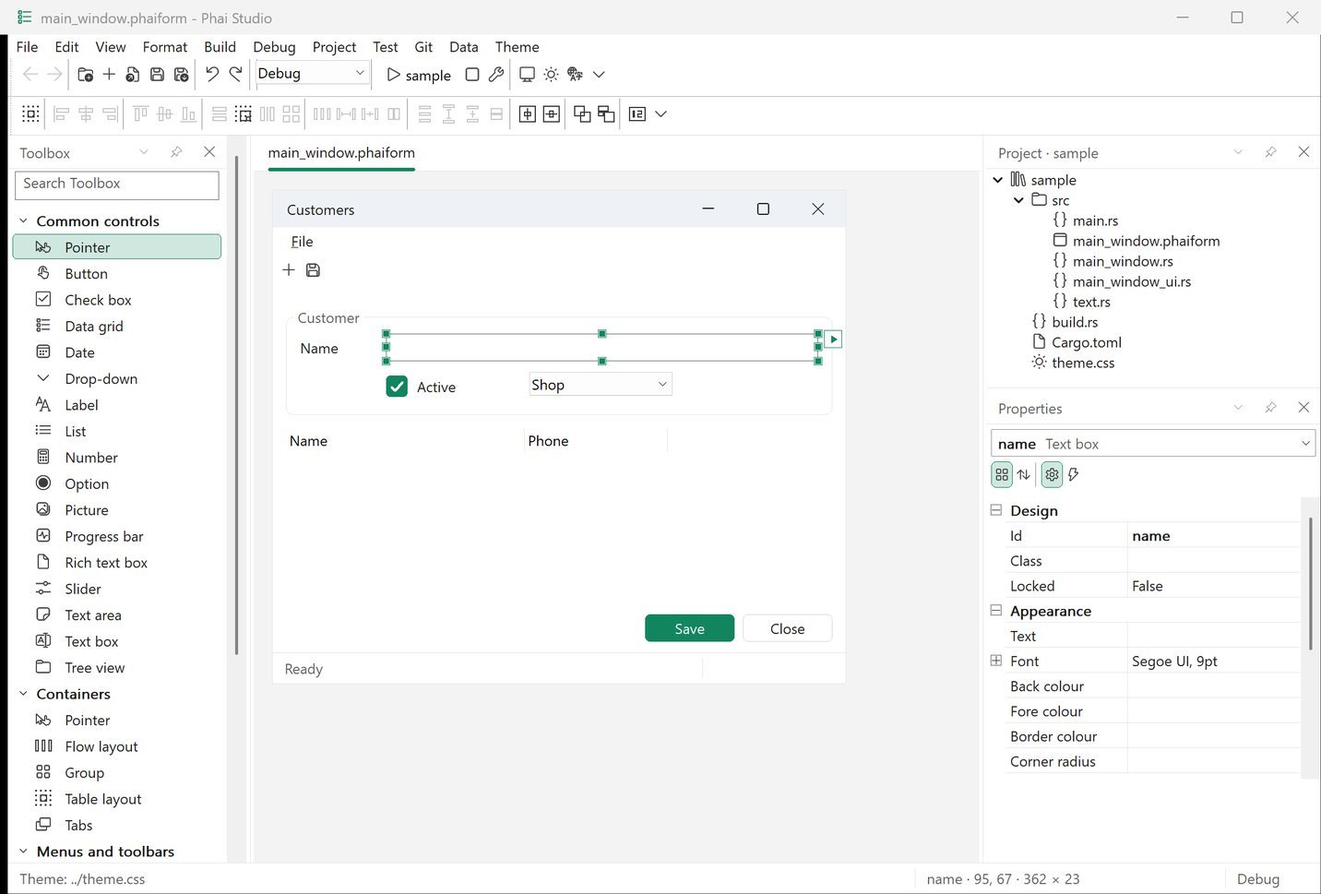
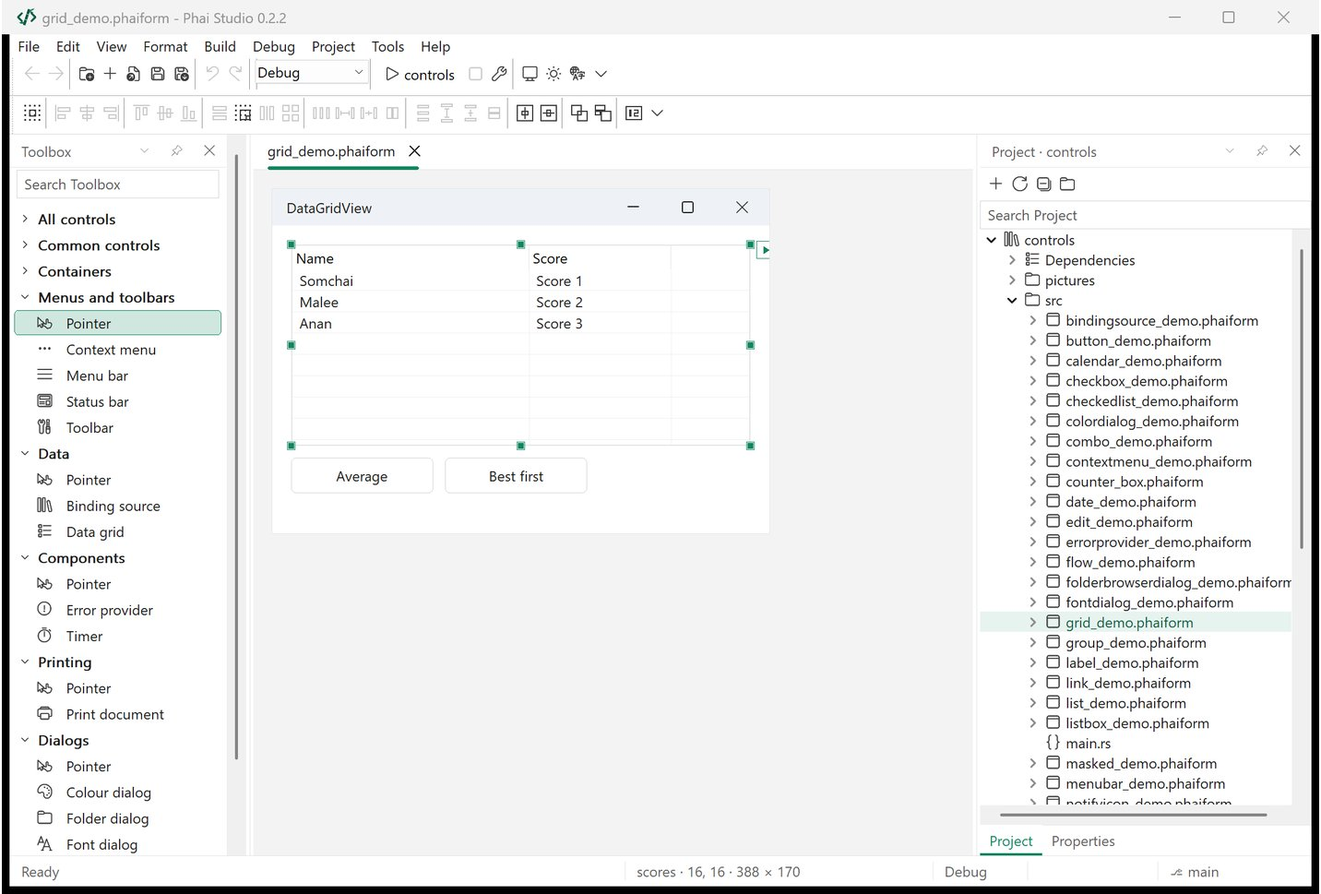
phai-studio.monrak.net: a guide section (tool pages and Rust lessons), the features as they are in 0.2.x, the theme editor and guide in the screenshots with a new designer shot, and 'Made with Phai Studio' showing the Phai Desk console; no other product named for comparison

diff --git a/site/assets/site.css b/site/assets/site.css
@@ -231,3 +231,17 @@ main, .foot { position: relative; z-index: 2; }
 .nb { white-space: nowrap; }
 p, li, h1, h2, h3, figcaption, blockquote, small, span { text-wrap: pretty; }
 h1, h2 { text-wrap: balance; }
+
+/* The guide in two parts (tools a page each, Rust lessons) and the made-with card. */
+.grid.g4 { grid-template-columns: repeat(4, 1fr); }
+@media (max-width: 960px) { .grid.g4 { grid-template-columns: repeat(2, 1fr); } }
+@media (max-width: 420px) { .grid.g4 { grid-template-columns: 1fr; } }
+h3.part { display: flex; align-items: center; gap: 8px; margin: 8px 0 4px; font-size: 1.15rem; }
+h3.part.mt { margin-top: 36px; }
+h3.part .ti { color: var(--green); font-size: 1.3rem; }
+h3.part + .muted { margin: 0 0 16px; }
+.card.tool .icon img { width: 26px; height: 26px; }
+.card.tool p { font-size: .92rem; }
+.card.made { display: grid; grid-template-columns: 3fr 2fr; gap: 28px; align-items: center; }
+.made-shot img { display: block; width: 100%; height: auto; border-radius: 10px; border: 1px solid var(--line); box-shadow: 0 12px 32px rgba(15, 60, 40, .12); }
+@media (max-width: 760px) { .card.made { grid-template-columns: 1fr; } }

diff --git a/site/index.php b/site/index.php
@@ -100,33 +100,53 @@ $T = $th ? [
     'lead' => 'ลากวางปุ่ม ช่องกรอก ตาราง ลงบนฟอร์ม ดับเบิลคลิกเขียนโค้ด กด F5 ก็ได้โปรแกรม Windows จริง พร้อมตัวแก้โค้ดที่เติมคำให้ ดีบักเกอร์ เทสต์ Git และทำตัวติดตั้งให้ด้วย หน้าจอภาษาไทย และมีคู่มือสอน Rust ภาษาไทยในตัว',
     'btnDownload' => 'ดาวน์โหลดตัวติดตั้ง', 'btnGithub' => 'โค้ดบน GitHub', 'btnGuide' => 'อ่านคู่มือภาษาไทย',
     'meta' => fn ($c) => "รุ่น {$release['version']} · {$mb} MB · Windows 10/11 (64 บิต) · <b>ดาวน์โหลดแล้ว {$c['downloads']} ครั้ง</b> · เข้าชม {$c['visitors']} คน",
-    'learnH' => 'หัดเขียน Rust ด้วยภาษาไทย',
-    'learnSub' => 'Rust เป็นภาษาที่เร็วและปลอดภัย แต่ตำราส่วนใหญ่เป็นภาษาอังกฤษ Phai Studio จึงมีคู่มือภาษาไทยในตัว (กด F1) เริ่มจากศูนย์ทีละบท ทุกตัวอย่างลองรันได้จริง เพื่อให้นักเรียน นักศึกษา และคนทำงานที่อยากเขียนโปรแกรมเอง เริ่มได้โดยไม่ติดเรื่องภาษา',
+    'learnH' => 'เรียนเขียนโปรแกรมด้วยภาษาไทย',
+    'learnSub' => 'คู่มือภาษาไทยในตัวโปรแกรม สำหรับนักเรียน นักศึกษา และคนทำงานที่อยากเขียนโปรแกรมเอง มีสองส่วน: เครื่องมือทุกตัวใน Toolbox ทีละหน้า และบทเรียนภาษา Rust ตั้งแต่ศูนย์ ทุกตัวอย่างลองรันได้จริง',
+    'toolsH' => 'เครื่องมือทีละตัว', 'toolsSub' => '43 หน้า ทุกเครื่องมือใน Toolbox และฟอร์ม: ใช้ทำอะไร ตัวอย่างโค้ด Method, Properties และ Events - เลือก control บนฟอร์มแล้วกด F1 เปิดหน้าของมันทันที',
+    'rustH' => 'ภาษา Rust ทีละบท', 'rustSub' => '11 บท ตั้งแต่ตัวแปรจนถึง thread พร้อมบทอ่านข้อความ error ของคอมไพเลอร์',
+    'madeH' => 'สร้างด้วย Phai Studio', 'madeSub' => 'โปรแกรมจริงที่ออกแบบและเขียนด้วย Phai Studio ทั้งตัว',
+    'madeName' => 'คอนโซลของ Phai Desk', 'madeP' => 'โปรแกรมรีโมทและดูแลคอมพิวเตอร์ในสำนักงาน ทั้ง 7 หน้าต่าง (รายการเครื่อง ดูจอ ส่งไฟล์ แชท โปรแกรมในเครื่อง log) ออกแบบด้วยการลากวางใน Phai Studio แล้วทำตัวติดตั้งด้วย Publish',
+    'madeLink' => 'รู้จัก Phai Desk',
     'learn' => [
-        ['ti-player-play', 'บทที่ 1–3', 'เริ่มต้น ตัวแปรและชนิดข้อมูล if / loop / match'],
-        ['ti-key', 'บทที่ 4', 'ความเป็นเจ้าของ (ownership) และการยืม หัวใจของ Rust อธิบายด้วยภาพ'],
-        ['ti-box', 'บทที่ 5–7', 'struct, enum, การจัดการข้อผิดพลาด, Vec และ HashMap'],
-        ['ti-puzzle', 'บทที่ 8–9', 'trait, generic, โมดูล และการเขียนเทสต์'],
-        ['ti-alert-triangle', 'บทที่ 10', 'อ่านข้อความ error ของคอมไพเลอร์ให้เป็น พร้อมวิธีแก้ที่เจอบ่อย'],
-        ['ti-arrows-split', 'บทที่ 11', 'ทำงานหลายอย่างพร้อมกันด้วย thread อย่างปลอดภัย'],
+        ['ti-player-play', 'บทที่ 1–3', 'เริ่มต้น ตัวแปรและชนิดข้อมูล if / loop / match', 'rust-01'],
+        ['ti-key', 'บทที่ 4', 'ความเป็นเจ้าของ (ownership) และการยืม หัวใจของ Rust อธิบายด้วยภาพ', 'rust-04'],
+        ['ti-box', 'บทที่ 5–7', 'struct, enum, การจัดการข้อผิดพลาด, Vec และ HashMap', 'rust-05'],
+        ['ti-puzzle', 'บทที่ 8–9', 'trait, generic, โมดูล และการเขียนเทสต์', 'rust-08'],
+        ['ti-alert-triangle', 'บทที่ 10', 'อ่านข้อความ error ของคอมไพเลอร์ให้เป็น พร้อมวิธีแก้ที่เจอบ่อย', 'rust-10'],
+        ['ti-arrows-split', 'บทที่ 11', 'ทำงานหลายอย่างพร้อมกันด้วย thread อย่างปลอดภัย', 'rust-11'],
+    ],
+    'tools' => [
+        ['form', 'ฟอร์ม', 'เปิดหน้าต่าง กล่องถาม ถามก่อนปิด'],
+        ['button', 'ปุ่ม', 'กดแล้วทำอะไรสักอย่าง'],
+        ['edit', 'ช่องข้อความ', 'อ่านและตรวจสิ่งที่พิมพ์'],
+        ['combo', 'รายการเลือก', 'เลือกหนึ่งอย่างจากรายการ'],
+        ['list', 'รายการ', 'ตารางหลายคอลัมน์'],
+        ['grid', 'ตารางข้อมูล', 'แก้ในช่อง เรียง ส่งออก'],
+        ['timer', 'ตัวจับเวลา', 'ทำซ้ำทุกวินาที'],
+        ['printdocument', 'เอกสารสำหรับพิมพ์', 'วาดหน้ากระดาษแล้วพิมพ์'],
     ],
     'learnBtn' => 'เปิดคู่มือ', 'learnShot' => 'โปรแกรมหน้าจอภาษาไทยที่สร้างด้วย Phai Studio',
     'featH' => 'ครบตั้งแต่ออกแบบหน้าจอ จนถึงตัวติดตั้ง',
     'featSub' => 'ทุกอย่างที่ต้องใช้ทำโปรแกรม Windows หนึ่งตัว อยู่ในโปรแกรมเดียว',
     'feat' => [
-        ['ti-layout-dashboard', 'ออกแบบฟอร์ม', 'ลากวางปุ่ม ช่องกรอก ตาราง เมนู แถบเครื่องมือ จัดแนว จัดระยะ แก้คุณสมบัติในหน้าต่าง Properties ตกแต่งด้วย CSS'],
+        ['ti-layout-dashboard', 'ออกแบบฟอร์ม', 'ลากวางปุ่ม ช่องกรอก ตาราง เมนู แถบเครื่องมือ จัดแนว จัดระยะ แก้คุณสมบัติในหน้าต่าง Properties'],
         ['ti-code', 'ตัวแก้โค้ด', 'สีตามไวยากรณ์ เติมคำอัตโนมัติ ไปยังที่ประกาศ หาที่ใช้ เปลี่ยนชื่อ จัดรูปแบบ พับโค้ด ด้วย rust-analyzer'],
-        ['ti-hammer', 'Build และ Publish', 'build แบบ Debug/Release เห็น error เป็นรายการ คลิกไปที่บรรทัดได้ Publish ออกมาเป็นตัวติดตั้งไฟล์เดียว'],
+        ['ti-table', 'ตารางข้อมูล', 'แก้ในช่องได้ กรองที่หัวคอลัมน์ จัดกลุ่ม ผลรวม ค้นหา ตารางหลัก-ย่อย และส่งออกเป็น Excel, PDF, CSV'],
+        ['ti-database', 'ฐานข้อมูล', 'ต่อ PostgreSQL, MySQL/MariaDB, SQLite ออกแบบตาราง รันคำสั่ง SQL และผูกข้อมูลกับฟอร์มโดยไม่ต้องเขียนโค้ด'],
+        ['ti-printer', 'รายงานพิมพ์', 'ออกแบบรายงานด้วยการลากวาง หัว-ท้ายกระดาษ จัดกลุ่ม ผลรวม ดูก่อนพิมพ์ และบันทึกเป็น PDF'],
+        ['ti-palette', 'ตกแต่งด้วย CSS', 'สี เส้นขอบ มุมมน เงา สีไล่ และภาพเคลื่อนไหว ของทั้งโปรแกรมจากไฟล์ธีมเดียว พร้อมตัวแก้ธีม'],
+        ['ti-device-mobile', 'เว็บและมือถือ', 'ฟอร์มเดิมรันในเบราว์เซอร์ และติดตั้งลงมือถือได้ทั้ง Android และ iPhone เผยแพร่เว็บแอปได้จาก Phai Studio'],
+        ['ti-hammer', 'Build และ Publish', 'build แบบ Debug/Release เพิ่มไลบรารีจาก crates.io แล้ว Publish เป็นตัวติดตั้งไฟล์เดียว พร้อมไอคอนของโปรแกรม'],
         ['ti-bug', 'ดีบักเกอร์ของตัวเอง', 'breakpoint ทีละบรรทัด ดูตัวแปร call stack thread หน่วยความจำ disassembly และ data breakpoint'],
         ['ti-flask', 'เทสต์และ Code Coverage', 'รันเทสต์ทั้งหมดหรือทีละตัว เห็นผลผ่าน/ไม่ผ่าน และแถบสีบอกบรรทัดที่เทสต์ครอบคลุม'],
         ['ti-git-branch', 'Git', 'commit, push, pull, branch, ประวัติไฟล์, blame และหน้าต่างแก้ conflict'],
-        ['ti-database', 'ฐานข้อมูล', 'Server Explorer ต่อ PostgreSQL, MySQL/MariaDB, SQLite ดูตาราง รันคำสั่ง SQL'],
-        ['ti-package', 'จัดการ crate', 'ค้นหาไลบรารีจาก crates.io แล้วกดเพิ่มหรือลบได้ เหมือน NuGet ของ Visual Studio'],
         ['ti-language', 'ไทย / อังกฤษ', 'สลับภาษาหน้าจอได้ทันที โปรแกรมที่สร้างก็ทำสองภาษาได้ และแสดงตัวอักษรไทยถูกต้อง'],
     ],
     'shotsH' => 'หน้าจอจริง', 'shotsSub' => 'ภาพจากการใช้งานจริง หน้าตาแบบ Windows มาตรฐาน คนที่เคยใช้ Visual Studio คุ้นมือทันที',
     'shots' => [
         ['designer', 'ออกแบบฟอร์ม', 'ลากวางปุ่ม ช่องกรอก และตาราง แล้วแก้คุณสมบัติในหน้าต่าง Properties'],
+        ['theme', 'แต่งธีม', 'เลือกธีมสำเร็จรูป หรือปรับสีทุกส่วนของหน้าจอ เห็นผลทันทีก่อนบันทึก'],
+        ['help', 'คู่มือทุกเครื่องมือ', 'ทุก control ใน Toolbox มีหน้าคู่มือภาษาไทย พร้อมตัวอย่างโค้ด - กด F1 เปิดได้ทันที'],
         ['editor', 'ตัวแก้โค้ด', 'สีตามไวยากรณ์ จำนวนที่ใช้งาน และเติมคำอัตโนมัติด้วย rust-analyzer'],
         ['debugger', 'ดีบักทีละบรรทัด', 'หยุดที่ breakpoint และดู thread ทั้งหมดของโปรแกรม'],
         ['breakpoints', 'Breakpoints', 'breakpoint แบบมีเงื่อนไข และนับจำนวนครั้ง เปิดปิดได้จากรายการ'],
@@ -188,7 +208,7 @@ $T = $th ? [
             'บันทึกข้อมูลทั้งชุดในครั้งเดียว (transaction) และหลายคนแก้แถวเดียวกันไม่บันทึกทับกัน',
         ]],
         ['0.2.0', '21 พ.ย. 2569', [
-            'Data grid แบบ DevExpress: ตั้งค่ารายคอลัมน์ ตัวแก้ค่าในช่อง รูปแบบตัวเลขและวันที่ กฎสี ผลรวม ค้นหา และจัดกลุ่ม',
+            'ตารางข้อมูลเต็มรูปแบบ: ตั้งค่ารายคอลัมน์ ตัวแก้ค่าในช่อง รูปแบบตัวเลขและวันที่ กฎสี ผลรวม ค้นหา และจัดกลุ่ม',
             'Database Designer: สร้างฐานข้อมูลและออกแบบตารางในหน้าเดียว',
             'ออกแบบเมนูและ toolbar บนฟอร์มได้โดยตรง พร้อม Properties และ Events',
             'ตัวแก้โค้ดแบบ Visual Studio: sticky scroll, สีวงเล็บ, ชนิดข้อมูลแสดงในบรรทัด, ตัดบรรทัด และเทียบไฟล์',
@@ -231,33 +251,53 @@ $T = $th ? [
     'lead' => 'Drag buttons, text boxes and grids onto a form, double-click to write the code, press F5 and you have a real Windows program. A code editor that completes for you, a debugger, tests, Git and an installer maker come with it, in English or Thai, with a Thai Rust guide built in.',
     'btnDownload' => 'Download the installer', 'btnGithub' => 'Code on GitHub', 'btnGuide' => 'Read the guide (Thai)',
     'meta' => fn ($c) => "Version {$release['version']} · {$mb} MB · Windows 10/11 (64-bit) · <b>Downloaded {$c['downloads']} times</b> · {$c['visitors']} visitors",
-    'learnH' => 'Learn Rust in Thai',
-    'learnSub' => 'Rust is fast and safe, but most books are in English. Phai Studio carries a Thai guide (press F1) that starts from zero, one lesson at a time, with examples that really run, so students and working people who want to write their own programs can start without a language barrier.',
+    'learnH' => 'Learn to program, in Thai',
+    'learnSub' => 'A Thai guide inside the program, for students and anyone who wants to write their own programs, in two parts: every tool of the Toolbox a page at a time, and Rust from zero - every example really runs.',
+    'toolsH' => 'Every tool, a page each', 'toolsSub' => '43 pages, every Toolbox tool and the form: what it is for, code examples, its methods, properties and events - choose a control on the form and press F1 to open its page',
+    'rustH' => 'Rust, a lesson at a time', 'rustSub' => '11 lessons from variables to threads, with one on reading the compiler\'s errors',
+    'madeH' => 'Made with Phai Studio', 'madeSub' => 'A real program designed and written in Phai Studio from start to finish',
+    'madeName' => 'The Phai Desk console', 'madeP' => 'Remote support and care for the office\'s computers: all 7 of its windows (the computers, the remote screen, files, chat, this computer\'s software and log) designed by drag and drop in Phai Studio, and its installer made with Publish',
+    'madeLink' => 'About Phai Desk',
     'learn' => [
-        ['ti-player-play', 'Lessons 1–3', 'Getting started, variables and types, if / loop / match'],
-        ['ti-key', 'Lesson 4', 'Ownership and borrowing, the heart of Rust, explained with pictures'],
-        ['ti-box', 'Lessons 5–7', 'struct, enum, handling errors, Vec and HashMap'],
-        ['ti-puzzle', 'Lessons 8–9', 'traits, generics, modules and writing tests'],
-        ['ti-alert-triangle', 'Lesson 10', 'Reading compiler errors, and the fixes for the common ones'],
-        ['ti-arrows-split', 'Lesson 11', 'Doing several things at once, safely, with threads'],
+        ['ti-player-play', 'Lessons 1–3', 'Getting started, variables and types, if / loop / match', 'rust-01'],
+        ['ti-key', 'Lesson 4', 'Ownership and borrowing, the heart of Rust, in pictures', 'rust-04'],
+        ['ti-box', 'Lessons 5–7', 'struct, enum, handling errors, Vec and HashMap', 'rust-05'],
+        ['ti-puzzle', 'Lessons 8–9', 'Traits, generics, modules and writing tests', 'rust-08'],
+        ['ti-alert-triangle', 'Lesson 10', 'Reading the compiler\'s error messages, and the fixes for the common ones', 'rust-10'],
+        ['ti-arrows-split', 'Lesson 11', 'Doing several things at once with threads, safely', 'rust-11'],
+    ],
+    'tools' => [
+        ['form', 'Form', 'Windows, dialogs, asking before closing'],
+        ['button', 'Button', 'Click it and something happens'],
+        ['edit', 'TextBox', 'Reading and checking what was typed'],
+        ['combo', 'ComboBox', 'One choice from a list'],
+        ['list', 'ListView', 'A table of rows and columns'],
+        ['grid', 'DataGridView', 'Edit in place, sort, export'],
+        ['timer', 'Timer', 'Again every second'],
+        ['printdocument', 'PrintDocument', 'Draw a page and print it'],
     ],
     'learnBtn' => 'Open the guide', 'learnShot' => 'A program with a Thai interface, made with Phai Studio',
     'featH' => 'From the first form to the installer',
     'featSub' => 'Everything it takes to make a Windows program, in one place',
     'feat' => [
-        ['ti-layout-dashboard', 'Form designer', 'Drag buttons, text boxes, grids, menus and toolbars; align and space them; set properties in the Properties window; style with CSS'],
+        ['ti-layout-dashboard', 'Form designer', 'Drag buttons, text boxes, grids, menus and toolbars; align and space them; set properties in the Properties window'],
         ['ti-code', 'Code editor', 'Syntax colours, completion, go to definition, find references, rename, formatting and folding, with rust-analyzer'],
-        ['ti-hammer', 'Build and Publish', 'Debug and Release builds, errors in a list that takes you to the line, and Publish to a one-file installer'],
+        ['ti-table', 'Data grid', 'Edit in the cells, filter from the headings, group, totals, find, master-detail, and export to Excel, PDF and CSV'],
+        ['ti-database', 'Databases', 'PostgreSQL, MySQL/MariaDB and SQLite: design tables, run SQL, and bind data to a form without code'],
+        ['ti-printer', 'Printed reports', 'Design reports by drag and drop: page headers and footers, groups, totals, a print preview and PDF'],
+        ['ti-palette', 'Styled with CSS', 'Colours, borders, rounded corners, shadows, gradients and animation for the whole program from one theme file, with a theme editor'],
+        ['ti-device-mobile', 'Web and phones', 'The same forms run in a browser and install on Android and iPhone; publish a web app straight from Phai Studio'],
+        ['ti-hammer', 'Build and Publish', 'Debug and Release builds, libraries from crates.io, and Publish to a one-file installer with the program\'s own icon'],
         ['ti-bug', 'Its own debugger', 'Breakpoints, stepping, locals, call stack, threads, memory, disassembly and data breakpoints'],
         ['ti-flask', 'Tests and code coverage', 'Run every test or one, see what passed and failed, and a coloured bar by every line the tests reach'],
         ['ti-git-branch', 'Git', 'Commit, push, pull, branches, file history, blame and a merge conflict editor'],
-        ['ti-database', 'Databases', 'Server Explorer for PostgreSQL, MySQL/MariaDB and SQLite: browse tables, run SQL'],
-        ['ti-package', 'Crates', 'Search crates.io and add or remove libraries with a click, like Visual Studio\'s NuGet'],
         ['ti-language', 'English / Thai', 'Switch the interface language at once; the programs you make can be bilingual too, with Thai shown right'],
     ],
     'shotsH' => 'Real screens', 'shotsSub' => 'Taken from real use: a standard Windows look that anyone who has used Visual Studio knows',
     'shots' => [
         ['designer', 'Form designer', 'Drag buttons, text boxes and grids, and set their properties in the Properties window'],
+        ['theme', 'Theme editor', 'Start from a ready theme or set every colour of the screen, and see it before saving'],
+        ['help', 'A guide for every tool', 'Every Toolbox control has its own guide page with examples - F1 opens it'],
         ['editor', 'Code editor', 'Syntax colours, reference counts and completion, with rust-analyzer'],
         ['debugger', 'Step by step', 'Stopped at a breakpoint, with every thread of the program'],
         ['breakpoints', 'Breakpoints', 'Conditions and hit counts, ticked on and off from the list'],
@@ -319,7 +359,7 @@ $T = $th ? [
             'Saving is one transaction, and two people editing the same row no longer overwrite each other',
         ]],
         ['0.2.0', '21 Nov 2026', [
-            'A DevExpress-style data grid: per-column settings, in-cell editors, number and date formats, colour rules, totals, find and grouping',
+            'A full data grid: per-column settings, in-cell editors, number and date formats, colour rules, totals, find and grouping',
             'Database Designer: make databases and design their tables in one place',
             'Menus and toolbars designed right on the form, with their properties and events',
             'A Visual Studio-style code editor: sticky scroll, bracket colours, inline type hints, word wrap and file compare',
@@ -442,15 +482,37 @@ $base = 'https://phai-studio.monrak.net/';
 
 <section id="learn" class="section">
     <div class="wrap">
-        <span class="label">Learn Rust in Thai</span>
+        <span class="label">Learn in Thai</span>
         <h2><?= e($T['learnH']) ?></h2>
         <p class="sub"><?= e($T['learnSub']) ?></p>
+        <h3 class="part"><i class="ti ti-tools"></i> <?= e($T['toolsH']) ?></h3>
+        <p class="muted"><?= e($T['toolsSub']) ?></p>
+        <div class="grid g4">
+            <?php foreach ($T['tools'] as [$tag, $b, $s]): ?>
+                <a class="card lesson tool" href="<?= $B ?>help/ctl-<?= $tag ?>.html" target="_blank" rel="noopener"><div class="icon"><img src="<?= $B ?>help/icons/<?= $tag ?>.png" alt="" width="26" height="26"></div><b><?= e($b) ?></b><p><?= e($s) ?></p></a>
+            <?php endforeach ?>
+        </div>
+        <h3 class="part mt"><i class="ti ti-brand-rust"></i> <?= e($T['rustH']) ?></h3>
+        <p class="muted"><?= e($T['rustSub']) ?></p>
         <div class="grid g3">
-            <?php foreach ($T['learn'] as [$icon, $b, $s]): ?>
-                <a class="card lesson" href="<?= $B ?>help/" target="_blank" rel="noopener"><div class="icon"><i class="ti <?= $icon ?>"></i></div><b><?= e($b) ?></b><p><?= e($s) ?></p></a>
+            <?php foreach ($T['learn'] as [$icon, $b, $s, $page]): ?>
+                <a class="card lesson" href="<?= $B ?>help/<?= $page ?>.html" target="_blank" rel="noopener"><div class="icon"><i class="ti <?= $icon ?>"></i></div><b><?= e($b) ?></b><p><?= e($s) ?></p></a>
             <?php endforeach ?>
         </div>
         <p class="mt"><a class="btn btn-primary" href="<?= $B ?>help/" target="_blank" rel="noopener"><i class="ti ti-book"></i> <?= e($T['learnBtn']) ?></a></p>
+    </div>
+</section>
+
+<section id="made" class="section tint">
+    <div class="wrap">
+        <span class="label">Made with Phai Studio</span>
+        <h2><?= e($T['madeH']) ?></h2>
+        <p class="sub"><?= e($T['madeSub']) ?></p>
+        <article class="card made">
+            <a class="made-shot" href="<?= v('shots/phaidesk.jpg') ?>" data-gallery data-caption="<?= e($T['madeName']) ?>"><img src="<?= v('shots/phaidesk.jpg') ?>" alt="<?= e($T['madeName']) ?>" width="1432" height="1046" loading="lazy"></a>
+            <div><h3><?= e($T['madeName']) ?></h3><p><?= e($T['madeP']) ?></p>
+                <p class="mt"><a class="btn btn-ghost" href="https://phai-desk.monrak.net/" target="_blank" rel="noopener"><i class="ti ti-external-link"></i> <?= e($T['madeLink']) ?></a></p></div>
+        </article>
     </div>
 </section>
 
